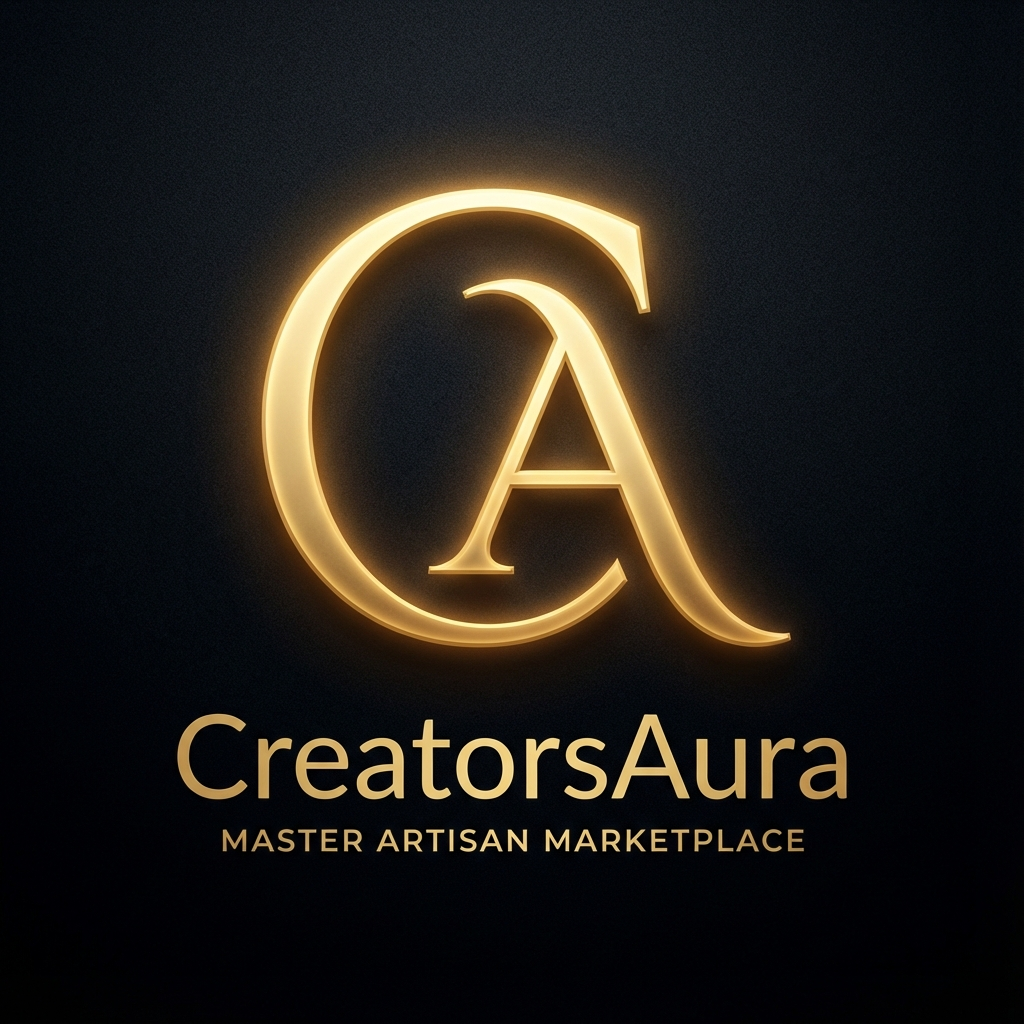
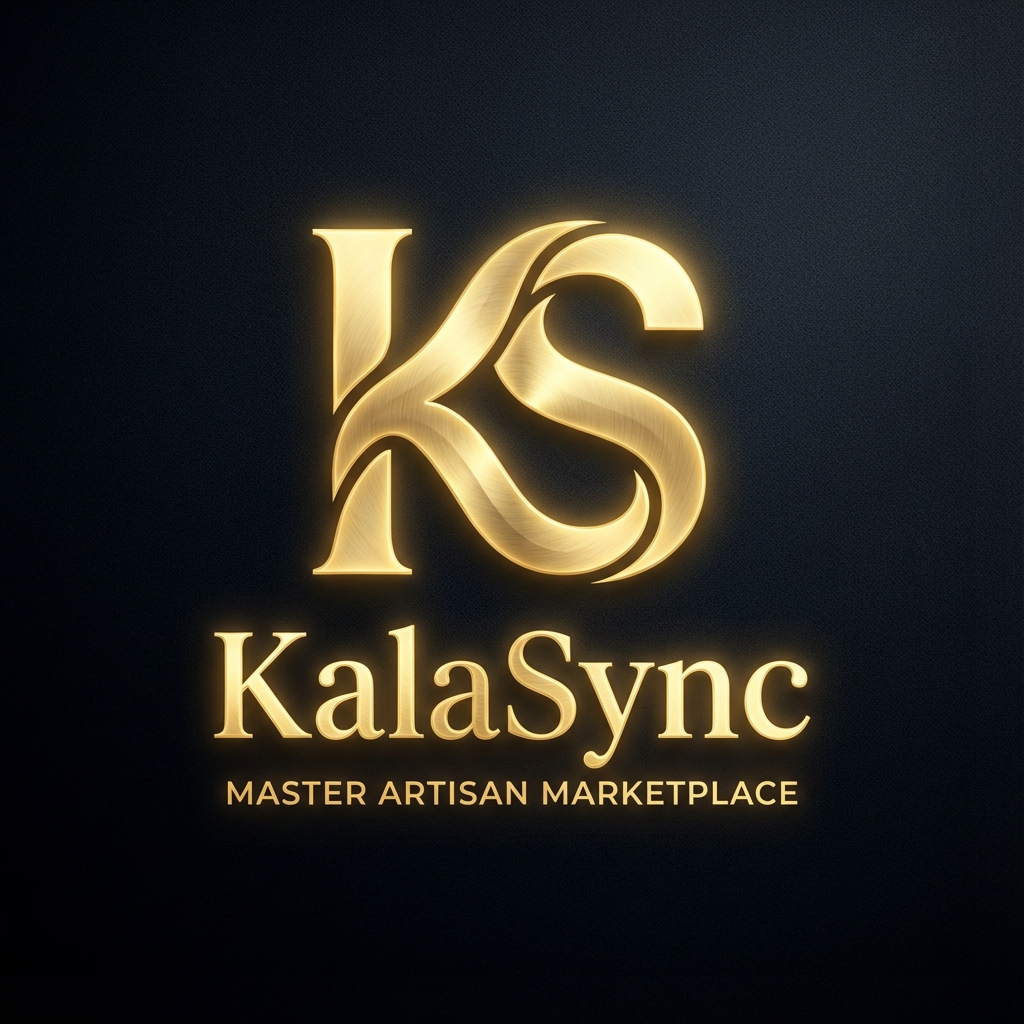
feat: Initialize core application structure, authentication, and PWA, including project rename to KalaSync.

diff --git a/app/page.tsx b/app/page.tsx
@@ -1,29 +1,51 @@
 import { auth } from "@/auth";
 import { Button } from "@/components/ui/button";
 import Link from "next/link";
-import { ArrowRight, Scissors, Palette, Sparkles, Layers, ShieldCheck, Zap, Globe } from "lucide-react";
+import { ArrowRight, Sparkles, ShieldCheck, Zap, Globe } from "lucide-react";
 
 export default async function Home() {
   const session = await auth();
 
   return (
-    <div className="relative">
-      {/* Refined Hero Section */}
+    <div className="relative overflow-hidden">
+      {/* Living Workshop Background Elements */}
+      <div className="absolute inset-0 pointer-events-none overflow-hidden">
+        {/* Animated Artisan Shot 1: Pottery */}
+        <div className="absolute top-20 -left-20 w-64 h-64 md:w-96 md:h-96 opacity-20 blur-[2px] animate-float-slow rotate-12">
+          <img src="/creator-pottery.png" alt="Artisan at work" className="w-full h-full object-cover rounded-3xl grayscale hover:grayscale-0 transition-all duration-1000" />
+        </div>
+
+        {/* Animated Artisan Shot 2: Weaving */}
+        <div className="absolute bottom-40 -right-20 w-64 h-64 md:w-96 md:h-96 opacity-20 blur-[1px] animate-float-delayed -rotate-12">
+          <img src="/creator-weaving.png" alt="Weaving loom" className="w-full h-full object-cover rounded-3xl grayscale hover:grayscale-0 transition-all duration-1000" />
+        </div>
+
+        {/* Animated Artisan Shot 3: Embroidery */}
+        <div className="absolute top-[60%] left-[10%] w-48 h-48 opacity-10 blur-[3px] animate-pulse-slow">
+          <img src="/creator-embroidery.png" alt="Embroidery work" className="w-full h-full object-cover rounded-full grayscale" />
+        </div>
+
+        {/* Dynamic Light Rays */}
+        <div className="absolute top-0 right-[20%] w-[1px] h-full bg-gradient-to-b from-transparent via-primary/20 to-transparent rotate-12"></div>
+        <div className="absolute top-0 left-[30%] w-[1px] h-full bg-gradient-to-b from-transparent via-primary/10 to-transparent -rotate-12"></div>
+      </div>
+
+      {/* Hero Section */}
       <section className="relative pt-32 pb-40 px-6">
         <div className="container mx-auto text-center relative z-10">
-          <div className="inline-flex items-center gap-2 px-4 py-1.5 rounded-full glass border border-white/[0.08] mb-10">
-            <Sparkles size={12} className="text-primary" />
-            <span className="text-[10px] font-bold tracking-[0.2em] uppercase text-white/50">The Future of Craft</span>
+          <div className="inline-flex items-center gap-2 px-4 py-1.5 rounded-full glass border border-white/[0.08] mb-10 shadow-[0_0_20px_rgba(197,160,89,0.1)]">
+            <Sparkles size={12} className="text-primary animate-pulse" />
+            <span className="text-[10px] font-bold tracking-[0.2em] uppercase text-white/50">Synchronizing Global Talent</span>
           </div>
 
           <h1 className="text-5xl md:text-7xl lg:text-8xl font-medium tracking-tight mb-10 leading-[1.1] font-[family-name:var(--font-playfair)]">
-            Elevating the <br />
-            <span className="text-gold-gradient italic">Art of Handmade</span>
+            Mastery in <br />
+            <span className="text-gold-gradient italic">Perfect Sync</span>
           </h1>
 
           <p className="text-lg md:text-xl text-muted-foreground max-w-2xl mx-auto mb-14 leading-relaxed font-light">
-            A curated collective of elite artisans. Discover bespoke services
-            and handcrafted excellence tailored to your unique vision.
+            Welcome to <span className="text-white font-medium">KalaSync</span>. A curated collective where
+            traditional craftsmanship meets digital precision. Connect with the world's finest artisans.
           </p>
 
           <div className="flex flex-col sm:flex-row items-center justify-center gap-5">
@@ -43,47 +65,47 @@ export default async function Home() {
         </div>
       </section>
 
-      {/* Professional Feature Grid */}
-      <section className="py-32 px-6 border-y border-white/[0.05] bg-white/[0.01]">
+      {/* Brand Pillar Section */}
+      <section className="py-32 px-6 border-y border-white/[0.05] bg-white/[0.01] relative overflow-hidden">
         <div className="container mx-auto">
           <div className="text-center mb-20">
-            <h2 className="text-3xl md:text-4xl font-bold mb-4 font-[family-name:var(--font-playfair)]">The Artisan Standard</h2>
-            <p className="text-muted-foreground text-sm max-w-lg mx-auto font-light">We bridge the gap between traditional mastery and modern convenience.</p>
+            <h2 className="text-3xl md:text-4xl font-bold mb-4 font-[family-name:var(--font-playfair)]">The KalaSync Protocol</h2>
+            <p className="text-muted-foreground text-sm max-w-lg mx-auto font-light">Elevating the standard of handmade commerce through trust and transparency.</p>
           </div>
 
           <div className="grid grid-cols-1 md:grid-cols-3 gap-12">
-            <div className="space-y-6">
-              <div className="w-12 h-12 rounded-xl bg-primary/10 flex items-center justify-center">
+            <div className="glass-card p-10 space-y-6 group">
+              <div className="w-12 h-12 rounded-xl bg-primary/10 flex items-center justify-center group-hover:bg-primary/20 transition-colors">
                 <ShieldCheck className="text-primary w-6 h-6" />
               </div>
-              <h3 className="text-xl font-semibold">Verified Excellence</h3>
-              <p className="text-sm text-muted-foreground leading-relaxed font-light">Every creator is hand-vetted for quality, reliability, and technical mastery.</p>
+              <h3 className="text-xl font-semibold">Verified Masters</h3>
+              <p className="text-sm text-muted-foreground leading-relaxed font-light">Every artisan undergoes the Council Review to ensure only authentic mastery enters the collective.</p>
             </div>
 
-            <div className="space-y-6">
-              <div className="w-12 h-12 rounded-xl bg-primary/10 flex items-center justify-center">
+            <div className="glass-card p-10 space-y-6 group">
+              <div className="w-12 h-12 rounded-xl bg-primary/10 flex items-center justify-center group-hover:bg-primary/20 transition-colors">
                 <Zap className="text-primary w-6 h-6" />
               </div>
-              <h3 className="text-xl font-semibold">Seamless Flow</h3>
-              <p className="text-sm text-muted-foreground leading-relaxed font-light">From initial request to final masterpiece, our workflow ensures clarity at every step.</p>
+              <h3 className="text-xl font-semibold">Real-time Crafting</h3>
+              <p className="text-sm text-muted-foreground leading-relaxed font-light">Experience the sync. Get milestone updates and direct artisan communication throughout the creation cycle.</p>
             </div>
 
-            <div className="space-y-6">
-              <div className="w-12 h-12 rounded-xl bg-primary/10 flex items-center justify-center">
+            <div className="glass-card p-10 space-y-6 group">
+              <div className="w-12 h-12 rounded-xl bg-primary/10 flex items-center justify-center group-hover:bg-primary/20 transition-colors">
                 <Globe className="text-primary w-6 h-6" />
               </div>
-              <h3 className="text-xl font-semibold">Global Vision</h3>
-              <p className="text-sm text-muted-foreground leading-relaxed font-light">Supporting local artisans while bringing their unique crafts to a worldwide audience.</p>
+              <h3 className="text-xl font-semibold">Legacy Proof</h3>
+              <p className="text-sm text-muted-foreground leading-relaxed font-light">Every creation is digitally logged, preserving the history and authenticity of your bespoke masterpiece.</p>
             </div>
           </div>
         </div>
       </section>
 
-      {/* Clean CTA Section */}
-      <section className="py-40 px-6">
-        <div className="max-w-4xl mx-auto text-center">
-          <h2 className="text-4xl md:text-5xl font-bold mb-8 font-[family-name:var(--font-playfair)]">Begin Your Legacy</h2>
-          <p className="text-muted-foreground mb-12 max-w-xl mx-auto font-light">Whether you are a patron of fine craft or a master artisan, your place is here.</p>
+      {/* CTA Section */}
+      <section className="py-40 px-6 relative">
+        <div className="max-w-4xl mx-auto text-center relative z-10">
+          <h2 className="text-4xl md:text-5xl font-bold mb-8 font-[family-name:var(--font-playfair)]">Sync with Excellence</h2>
+          <p className="text-muted-foreground mb-12 max-w-xl mx-auto font-light">Become part of the most exclusive ecosystem for handmade luxury.</p>
           <Link href="/register">
             <Button size="lg" className="btn-premium px-16">Get Started</Button>
           </Link>

diff --git a/app/globals.css b/app/globals.css
@@ -89,3 +89,114 @@
     @apply px-8 py-3 rounded-full font-semibold border border-white/10 hover:bg-white/5 transition-all duration-300;
   }
 }
+
+@keyframes aura-rotate {
+  0% {
+    transform: rotate(0deg);
+  }
+
+  100% {
+    transform: rotate(360deg);
+  }
+}
+
+@keyframes shimmer-gold {
+  0% {
+    filter: brightness(1) contrast(1);
+  }
+
+  50% {
+    filter: brightness(1.3) contrast(1.1) drop-shadow(0 0 15px rgba(255, 215, 0, 0.4));
+  }
+
+  100% {
+    filter: brightness(1) contrast(1);
+  }
+}
+
+@keyframes float-slow {
+
+  0%,
+  100% {
+    transform: translateY(0) rotate(12deg);
+  }
+
+  50% {
+    transform: translateY(-20px) rotate(14deg);
+  }
+}
+
+@keyframes float-delayed {
+
+  0%,
+  100% {
+    transform: translateY(0) rotate(-12deg);
+  }
+
+  50% {
+    transform: translateY(-20px) rotate(-10deg);
+  }
+}
+
+@keyframes pulse-slow {
+
+  0%,
+  100% {
+    opacity: 0.1;
+    transform: scale(1);
+  }
+
+  50% {
+    opacity: 0.2;
+    transform: scale(1.05);
+  }
+}
+
+.logo-container {
+  display: flex !important;
+  align-items: center !important;
+  gap: 12px !important;
+}
+
+.logo-icon-wrapper {
+  position: relative;
+  width: 32px;
+  height: 32px;
+  display: flex;
+  align-items: center;
+  justify-content: center;
+}
+
+.logo-aura {
+  position: absolute;
+  top: -6px;
+  left: -6px;
+  right: -6px;
+  bottom: -6px;
+  border-radius: 50%;
+  background: conic-gradient(from 0deg, transparent, rgba(255, 215, 0, 0.3), transparent, rgba(255, 215, 0, 0.3), transparent);
+  animation: aura-rotate 4s linear infinite;
+}
+
+.logo-icon-animate {
+  position: relative;
+  z-index: 1;
+  width: 100%;
+  height: 100%;
+  object-fit: contain;
+  animation: shimmer-gold 3s ease-in-out infinite;
+  border-radius: 6px;
+}
+
+.animate-float-slow {
+  animation: float-slow 8s ease-in-out infinite;
+}
+
+.animate-float-delayed {
+  animation: float-delayed 10s ease-in-out infinite;
+  animation-delay: 2s;
+}
+
+.animate-pulse-slow {
+  animation: pulse-slow 6s ease-in-out infinite;
+}

diff --git a/app/layout.tsx b/app/layout.tsx
@@ -20,11 +20,11 @@ const playfair = Playfair_Display({
 });
 
 export const metadata: Metadata = {
-  title: "CreatorsAura | Premium Handmade Marketplace",
+  title: "KalaSync | Premium Handmade Marketplace",
   description: "Connect with the finest handmade service providers and creators.",
   manifest: "/manifest.json",
   appleWebApp: {
-    title: "CreatorsAura",
+    title: "KalaSync",
     statusBarStyle: "black-translucent",
     capable: true,
   },
@@ -49,7 +49,7 @@ export default async function RootLayout({
         <AuthProvider>
           <nav className="fixed top-0 left-0 right-0 z-50 glass px-6 py-5 flex items-center justify-between border-b border-white/[0.06]">
             <Link href="/" className="text-xl font-bold tracking-[0.2em] font-[family-name:var(--font-playfair)]">
-              CREATORSAURA
+              KALASYNC
             </Link>
             <div className="flex items-center gap-8">
               <Link href="/creators" className="text-xs font-bold uppercase tracking-widest text-white/50 hover:text-primary transition-colors">Artisans</Link>

diff --git a/app/register/page.tsx b/app/register/page.tsx
@@ -68,7 +68,7 @@ export default function RegisterPage() {
                                     <FormItem>
                                         <FormLabel className="text-[10px] font-bold tracking-widest uppercase text-white/40">Identity (Email)</FormLabel>
                                         <FormControl>
-                                            <Input placeholder="artisan@creatorsaura.in" {...field} className="bg-white/5 border-white/10 rounded-xl py-6 focus-visible:ring-primary/50" />
+                                            <Input placeholder="artisan@kalasync.in" {...field} className="bg-white/5 border-white/10 rounded-xl py-6 focus-visible:ring-primary/50" />
                                         </FormControl>
                                         <FormMessage />
                                     </FormItem>

diff --git a/app/login/page.tsx b/app/login/page.tsx
@@ -72,7 +72,7 @@ export default function LoginPage() {
                                     <FormItem>
                                         <FormLabel className="text-[10px] font-bold tracking-widest uppercase text-white/40">Identity (Email)</FormLabel>
                                         <FormControl>
-                                            <Input placeholder="artisan@creatorsaura.in" {...field} className="bg-white/5 border-white/10 rounded-xl py-6 focus-visible:ring-primary/50" />
+                                            <Input placeholder="artisan@kalasync.in" {...field} className="bg-white/5 border-white/10 rounded-xl py-6 focus-visible:ring-primary/50" />
                                         </FormControl>
                                         <FormMessage />
                                     </FormItem>

diff --git a/prisma/seed-admin.ts b/prisma/seed-admin.ts
@@ -4,7 +4,7 @@ import bcrypt from 'bcryptjs'
 const prisma = new PrismaClient()
 
 async function main() {
-    const email = 'admin@creatorsaura.in'
+    const email = 'admin@kalasync.in'
     const password = 'adminpassword123'
     const hashedPassword = await bcrypt.hash(password, 10)
 
@@ -20,7 +20,7 @@ async function main() {
             profile: {
                 create: {
                     fullName: 'Grand Elder',
-                    bio: 'Guardian of the CreatorsAura Collective.',
+                    bio: 'Guardian of the KalaSync Collective.',
                     skills: ['Administration'],
                     machinePhotos: [], // Not needed for admin but schema requires array
                     portfolio: []

diff --git a/app/creators/[id]/page.tsx b/app/creators/[id]/page.tsx
@@ -16,7 +16,7 @@ export async function generateMetadata({ params }: { params: Promise<{ id: strin
     if (!creator || !creator.profile) return { title: 'Creator Not Found' }
 
     return {
-        title: `${creator.profile.fullName} | CreatorsAura Artist`,
+        title: `${creator.profile.fullName} | KalaSync Artist`,
         description: creator.profile.bio || `View the boutique handmade portfolio of ${creator.profile.fullName}.`,
     }
 }

diff --git a/AURA_MASTER_GUIDE.md b/AURA_MASTER_GUIDE.md
@@ -1,12 +1,12 @@
-# 🧶 CreatorsAura: System Operations & Master Guide
+# 🧶 KalaSync: System Operations & Master Guide
 
-Welcome to the modernized **CreatorsAura** marketplace. This document provides a comprehensive overview of how the system operates, the technical architecture, and instructions for running the platform.
+Welcome to the modernized **KalaSync** marketplace. This document provides a comprehensive overview of how the system operates, the technical architecture, and instructions for running the platform.
 
 ---
 
 ## 🏛 System Architecture
 
-CreatorsAura uses a **Modular Hexagonal-Lite Architecture**, separating concerns into three distinct layers to ensure scalability and maintainability.
+KalaSync uses a **Modular Hexagonal-Lite Architecture**, separating concerns into three distinct layers to ensure scalability and maintainability.
 
 ```mermaid
 graph TD
@@ -121,7 +121,7 @@ Users browse the **Find Artists** gallery. The UI uses `CreatorCard` with 3D hov
 
 ---
 
-## 🎨 Design Philosophy: "CreatorsAura Luxury"
+## 🎨 Design Philosophy: "KalaSync Luxury"
 - **Obsidian Foundation**: Deep dark themes for focus and premium feel.
 - **Aura Gold**: Used sparingly for high-value actions and typography.
 - **Glassmorphism**: Backdrop blurs and subtle borders to create depth and sophistication.

diff --git a/DATABASE_MANAGEMENT.md b/DATABASE_MANAGEMENT.md
@@ -1,6 +1,6 @@
-# CreatorsAura Database & User Management Guide
+# KalaSync Database & User Management Guide
 
-This guide details how to manage the CreatorsAura database and monitor the lifecycle of artisans and patrons within our "Managed Marketplace."
+This guide details how to manage the KalaSync database and monitor the lifecycle of artisans and patrons within our "Managed Marketplace."
 
 ## 1. Visual Database Management (Prisma Studio)
 For direct, real-time access to the database without writing SQL, we use **Prisma Studio**. This is the recommended way to view all "enrolled" users, their raw profiles, and order statuses.

diff --git a/README.md b/README.md
@@ -1,4 +1,4 @@
-# CreatorsAura Marketplace
+# KalaSync Marketplace
 
 A two-sided marketplace built with Next.js 14, Tailwind CSS, and Prisma.
 
